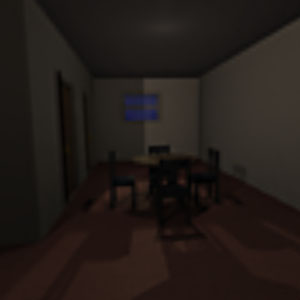
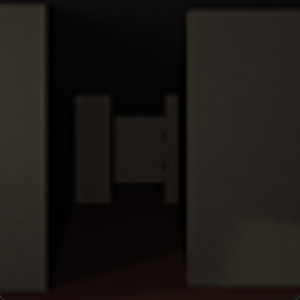
gluPerspectiveの近くのクリッピング平面を更新し、光源の位置を設定するコードを追加

diff --git a/_posts/2005-01-14-texture.md b/_posts/2005-01-14-texture.md
@@ -156,9 +156,7 @@ static void init(void)
   GL_RGB, GL_UNSIGNED_BYTE, texture);
 ```
 
-テクスチャの拡大には線形補間 `GL_LINEAR` を行うようにします．これでテクスチャのサイズが小さくても，鏡面反射を滑らかに見せることができます．またこのテクスチャは充分滑らかなので，テクスチャの縮小は最近傍法 `GL_NEAREST` のままでも問題ないと思いますが，これにも線形補間 `GL_LINEAR` を用いることにします．
-
-テクスチャによる鏡面反射光は，OpenGL の陰影付けによる拡散反射光に加算して合成します．このために，[`glTexEnvi()`](https://registry.khronos.org/OpenGL-Refpages/gl2.1/xhtml/glTexEnv.xml) で `GL_TEXTURE_ENV_MODE` に `GL_ADD` を指定します．これは OpenGL 1.3 から標準機能に取り込まれた機能なので，ビデオコントローラによっては機能しない場合があるようです（ATI Mobility M4 を搭載している ThinkPad や SGI VWS320 では機能しませんでした）．
+テクスチャの拡大フィルタ (`GL_TEXTURE_MAG_FILTER`) には線形補間 `GL_LINEAR` を行うようにします．これでテクスチャのサイズが小さくても，鏡面反射を滑らかに見せることができます．またこのテクスチャは充分滑らかなので，テクスチャの縮小フィルタ (`GL_TEXTURE_MIN_FILTER`) は最近傍法 `GL_NEAREST` のままでも問題ないと思いますが，これにも線形補間 `GL_LINEAR` を用いることにします．ただし、この時はテクスチャのラッピングモード (`GL_TEXTURE_WRAP_S` や `GL_TEXTURE_WRAP_T`) を `GL_CLAMP_TO_EDGE` にしないと、テクスチャの範囲外がマッピングされている領域の色が、テクスチャの最外周の色と違ってきます。なお、`GL_CLAMP_TO_EDGE` は OpenGL 1.2 からコア機能（標準機能）に取り入れられました。
 
 ```c
   /* テクスチャを拡大・縮小する方法の指定 */
@@ -166,19 +164,24 @@ static void init(void)
   glTexParameteri(GL_TEXTURE_2D, GL_TEXTURE_MIN_FILTER, GL_LINEAR);
 
   /* テクスチャの繰り返し方法の指定 */
-  glTexParameteri(GL_TEXTURE_2D, GL_TEXTURE_WRAP_S, GL_CLAMP);
-  glTexParameteri(GL_TEXTURE_2D, GL_TEXTURE_WRAP_T, GL_CLAMP);
+  glTexParameteri(GL_TEXTURE_2D, GL_TEXTURE_WRAP_S, GL_CLAMP_TO_EDGE);
+  glTexParameteri(GL_TEXTURE_2D, GL_TEXTURE_WRAP_T, GL_CLAMP_TO_EDGE);
 
   /* スフィアマッピング用のテクスチャ座標を生成する */
   glTexGeni(GL_S, GL_TEXTURE_GEN_MODE, GL_SPHERE_MAP);
   glTexGeni(GL_T, GL_TEXTURE_GEN_MODE, GL_SPHERE_MAP);
+```
 
+テクスチャによる鏡面反射光は，OpenGL の陰影付けによる拡散反射光に加算して合成します．このために，[`glTexEnvi()`](https://registry.khronos.org/OpenGL-Refpages/gl2.1/xhtml/glTexEnv.xml) で `GL_TEXTURE_ENV_MODE` に `GL_ADD` を指定します．これは OpenGL 1.3 からコア標準に取り入れられました。
+
+```c
   /* テクスチャ環境（ポリゴンの陰影に加算する） */
   glTexEnvi(GL_TEXTURE_ENV, GL_TEXTURE_ENV_MODE, GL_ADD);
 
   /* 光源の初期設定 */
   glEnable(GL_LIGHTING);
   glEnable(GL_LIGHT0);
+  glLightfv(GL_LIGHT0, GL_POSITION, lightpos);
   glLightfv(GL_LIGHT0, GL_DIFFUSE, lcol);
   glLightfv(GL_LIGHT0, GL_SPECULAR, lcol);
   glLightfv(GL_LIGHT0, GL_AMBIENT, lamb);
@@ -186,7 +189,7 @@ static void init(void)
 
 サンプルプログラムでは，スフィアマッピングを使って Phong のスムーズシェーディングを実現した図形の他に，これと同じパラメータを使って OpenGL 本来の陰影付けを行った図形を表示して，生成画像を比較できるようにしています．
 
-スフィアマッピングは鏡面反射成分にのみ利用するので，この方法では拡散反射成分と鏡面反射成分を別々に計算することになります．そこで比較の対象とする OpenGL 本来の陰影付けでも，拡散反射光と鏡面反射光を別々に補間するようにします．この機能も OpenGL 1.2 から標準機能に取り入れられた機能なので，VC++ 6.0 の gl.h には定数の定義が含まれていません．
+スフィアマッピングは鏡面反射成分にのみ利用するので，この方法では拡散反射成分と鏡面反射成分を別々に計算することになります．そこで比較の対象とする OpenGL 本来の陰影付けでも，拡散反射光と鏡面反射光を別々に補間するようにします．これは陰影付けモデルの設定の `GL_LIGHT_MODEL_COLOR_CONTROL` に `GL_SEPARATE_SPECULAR_COLOR` を設定します。この機能も OpenGL 1.2 からコア機能に取り入れられました。
 
 ```c
   /* 拡散反射光と鏡面反射光を別々に補間する */
@@ -196,6 +199,24 @@ static void init(void)
   glClearColor(0.3, 0.3, 1.0, 0.0);
   glEnable(GL_DEPTH_TEST);
   glDisable(GL_CULL_FACE);
+```
+
+VC++ 6.0 付属のソフトウェア開発キット (Windows SDK) に含まれている gl.h は OpenGL 1.1 のものなので、これ以降に OpenGL のコア機能に取り入れられた関数や定数は宣言されていません。その場合は、OpenGL の拡張機能を定義している glext.h を `#include` する必要があります。
+
+```c
+#if defined(__APPLE__)
+#  define GL_SILENCE_DEPRECATION
+#  include <GLUT/glut.h>
+#  include <OpenGL/glext.h>
+#else
+#  if defined(_WIN32)
+//#    pragma comment(linker, "/subsystem:\"windows\" /entry:\"mainCRTStartup\"")
+#    define _USE_MATH_DEFINES
+#    define _CRT_SECURE_NO_WARNINGS
+#  endif
+#  include <GL/glut.h>
+#  include <GL/glext.h>
+#endif
 ```
 
 ## シーンの描画

diff --git a/_posts/2005-06-10-texture.md b/_posts/2005-06-10-texture.md
@@ -100,7 +100,7 @@ static void init(void)
 
 `glTexSubImage2D()` は，`glTexImage2D()` でテクスチャを割り当てた後，そのテクスチャの一部を別の画像で置き換えます．この際，置き換える画像のサイズは 2<sup>n</sup> である必要はありません．つまり，最初に `glTexImage2D()` で（2<sup>n</sup> のサイズの）テクスチャを割り当てておけば，`glTexSubImage2D()` を使って（割り当てたテクスチャより小さな）任意のサイズの画像をテクスチャとして利用できます．
 
-それでは先ほど追加した部分を**書き換え**て，６面全部を置き換えてしまいましょう．テクスチャを置き換える位置の x 座標値を 128 画素ずつずらしながら，テクスチャを置き換えてゆきます．こうして全部の面を置き換えてしまうと，最初のサイコロの画像は不要になるので，この読み込みは無効にしておきます．
+それでは先ほど追加した部分を**書き換え**て，６面全部を置き換えてしまいましょう．まず、サイコロのテクスチャを読み込んでいる部分を `#if 0` ～ `#endif` ではさんで無効にします。
 
 ```c
 /*
@@ -127,34 +127,38 @@ static void init(void)
 #endif
 ```
 
-そうすると、この時点で配列 `texture` には何もデータが入っていない（不定）なので、`glTexImage2D()` の最後の引数は `nullptr` にして、テクスチャメモリの確保だけを行うようにしておきます。そのあと、`glTexSubImage()` を使って、ファイルごとにテクスチャメモリにデータを詰めていきます。
+これにより配列 `texture` には何もデータが入っていない状態（不定）になるので、`glTexImage2D()` の最後の引数を `nullptr` にして、データの転送を行わずテクスチャメモリの確保だけを行うようにします。
 
-```cpp
-/* テクスチャの割り当て */
-glTexImage2D(GL_TEXTURE_2D, 0, GL_RGBA, TEXWIDTH, TEXHEIGHT, 0,
-  GL_RGBA, GL_UNSIGNED_BYTE, nullptr);
+```c
+  /* テクスチャの割り当て */
+  glTexImage2D(GL_TEXTURE_2D, 0, GL_RGBA, TEXWIDTH, TEXHEIGHT, 0,
+    GL_RGBA, GL_UNSIGNED_BYTE, nullptr);
+```
 
-for (int i = 0; i < 6; ++i) {
-  /* テクスチャファイル名 */
-  static const char *textures[] = {
-    "room2ny.raw", /* 下 */
-    "room2nz.raw", /* 裏 */
-    "room2px.raw", /* 右 */
-    "room2pz.raw", /* 前 */
-    "room2nx.raw", /* 左 */
-    "room2py.raw", /* 上 */
-  };
+そして `glTexSubImage()` を使ってテクスチャを置き換える位置の x 座標値をファイルごとに 128 画素ずつずらしながら，テクスチャを置き換えてゆきます．
 
-  if ((fp = fopen(textures[i], "rb")) != NULL) {
-    /* テクスチャ画像の読み込み */
-    fread(texture, 128 * 128 * 4, 1, fp);
-    fclose(fp);
+```c
+  for (int i = 0; i < 6; ++i) {
+    /* テクスチャファイル名 */
+    static const char *textures[] = {
+      "room2ny.raw", /* 下 */
+      "room2nz.raw", /* 裏 */
+      "room2px.raw", /* 右 */
+      "room2pz.raw", /* 前 */
+      "room2nx.raw", /* 左 */
+      "room2py.raw", /* 上 */
+    };
 
-    /* テクスチャの置き換え */
-    glTexSubImage2D(GL_TEXTURE_2D, 0, i * 128, 0, 128, 128,
-      GL_RGBA, GL_UNSIGNED_BYTE, texture);
+    if ((fp = fopen(textures[i], "rb")) != NULL) {
+      /* テクスチャ画像の読み込み */
+      fread(texture, 128 * 128 * 4, 1, fp);
+      fclose(fp);
+
+      /* テクスチャの置き換え */
+      glTexSubImage2D(GL_TEXTURE_2D, 0, i * 128, 0, 128, 128,
+        GL_RGBA, GL_UNSIGNED_BYTE, texture);
+    }
   }
-}
 ```
 
 `glTexSubImage2D()` は実行時に動的にテクスチャを置き換えることができるので，これを使ってテクスチャのアニメーションなども実現できます．

diff --git a/_posts/2005-06-11-texture.md b/_posts/2005-06-11-texture.md
@@ -11,64 +11,7 @@ published: true
 
 - [6面全部のテクスチャを置き換えたサンプルプログラム](https://github.com/tokoik/texture11)
 
-## 箱を大きくする
-
-箱の中に入るというより，箱をデカくして，視点が箱に含まれるようにしてみます．
-
-```c
-/*
-** シーンの描画
-*/
-static void scene(void)
-{
-  static const GLfloat color[] = { 1.0, 1.0, 1.0, 1.0 };  /* 材質 (色) */
-
-  /* 材質の設定 */
-  glMaterialfv(GL_FRONT, GL_AMBIENT_AND_DIFFUSE, color);
-
-  /* テクスチャマッピング開始 */
-  glEnable(GL_TEXTURE_2D);
-
-  /* トラックボール処理による回転 */
-  glMultMatrixd(trackballRotation());
-
-  /* 箱を描く */
-  box(50.0, 50.0, 50.0);
-
-  /* テクスチャマッピング終了 */
-  glDisable(GL_TEXTURE_2D);
-}
-```
-
-![箱を大きくして箱の中に入ってみた]({{ site.baseurl }}/assets/images/dice6.jpg)
-
-なんだか暗いので，テクスチャが陰影に影響されないように，テクスチャ環境を `GL_MODULATE` から `GL_REPLACE` に変更します．
-
-```c
-/*
-** 初期化
-*/
-static void init(void)
-{
-  ...
-
-  /* テクスチャを拡大・縮小する方法の指定 */
-  glTexParameteri(GL_TEXTURE_2D, GL_TEXTURE_MAG_FILTER, GL_LINEAR);
-  glTexParameteri(GL_TEXTURE_2D, GL_TEXTURE_MIN_FILTER, GL_LINEAR);
-
-  /* テクスチャの繰り返し方法の指定 */
-  glTexParameteri(GL_TEXTURE_2D, GL_TEXTURE_WRAP_S, GL_CLAMP);
-  glTexParameteri(GL_TEXTURE_2D, GL_TEXTURE_WRAP_T, GL_CLAMP);
-
-  /* テクスチャ環境 */
-  glTexEnvi(GL_TEXTURE_ENV, GL_TEXTURE_ENV_MODE, GL_REPLACE);
-```
-
-![テクスチャに対する陰影を影響を無効にした]({{ site.baseurl }}/assets/images/dice7.jpg)
-
-## 箱の中心から見てみる
-
-そして，視点をこの箱の中心に移動します．視点はもともと Z 軸の正の方向にずらしていた（実際には，物体の方を Z 軸の負の方向にずらしていた）ので，この部分を無効にします．
+視点をこの箱の中心に移動して、箱の中に入ってみます．視点はもともと Z 軸の正の方向にずらしていた（実際には，物体の方を Z 軸の負の方向にずらしていた）ので，この部分を `#if 0` ～ `#endif` ではさんで無効にします．
 
 ```c
 static void display(void)
@@ -87,7 +30,33 @@ static void display(void)
 #endif
 ```
 
-![視点を部屋の中心に移動した]({{ site.baseurl }}/assets/images/dice8.jpg)
+![視点を部屋の中心に移動した]({{ site.baseurl }}/assets/images/dice6.jpg)
+
+## 陰影付けはしない
+
+なんだか暗いので，テクスチャが陰影に影響されないように，テクスチャ環境を `GL_MODULATE` から `GL_REPLACE` に変更します．
+
+```c
+/*
+** 初期化
+*/
+static void init(void)
+{
+  ...
+
+  /* テクスチャを拡大・縮小する方法の指定 */
+  glTexParameteri(GL_TEXTURE_2D, GL_TEXTURE_MAG_FILTER, GL_LINEAR);
+  glTexParameteri(GL_TEXTURE_2D, GL_TEXTURE_MIN_FILTER, GL_LINEAR);
+
+  /* テクスチャの繰り返し方法の指定 */
+  glTexParameteri(GL_TEXTURE_2D, GL_TEXTURE_WRAP_S, GL_CLAMP_TO_EDGE);
+  glTexParameteri(GL_TEXTURE_2D, GL_TEXTURE_WRAP_T, GL_CLAMP_TO_EDGE);
+
+  /* テクスチャ環境 */
+  glTexEnvi(GL_TEXTURE_ENV, GL_TEXTURE_ENV_MODE, GL_REPLACE);
+```
+
+![テクスチャに対する陰影を影響を無効にした]({{ site.baseurl }}/assets/images/dice7.jpg)
 
 マウスをドラッグしてこの箱をぐるぐる回すと，部屋を内側から見回すことができます．テクスチャの境界が目立っているのは，テクスチャ自体の作り方が悪くて，最外周の画素の色が変化しているからです．
 

diff --git a/_posts/2005-01-21-texture.md b/_posts/2005-01-21-texture.md
@@ -224,7 +224,7 @@ static void display(void)
   glRotated(t * 360.0, 0.0, 0.0, 1.0);
 #if 0
   glScaled(0.5, 0.5, 1.0);
-  gluPerspective(60.0, 1.0, 1.0, 100.0);
+  gluPerspective(60.0, 1.0, 0.1, 10.0);
   gluLookAt(0.0, 2.0, 0.0, 0.0, 0.0, 0.0, 0.0, 0.0, 1.0);
 #else
   glTranslated(-0.5, -0.5, 0.0);
@@ -298,10 +298,18 @@ static void init(void)
     glTexImage2D(target[i], 0, GL_RGBA, TEXWIDTH, TEXHEIGHT, 0,
     GL_RGBA, GL_UNSIGNED_BYTE, texture);
   }
+  ```
 
+テクスチャの拡大フィルタ (`GL_TEXTURE_MAG_FILTER`) とに縮小フィルタ (`GL_TEXTURE_MIN_FILTER`) では線形補間 `GL_LINEAR` を行うようにします．ただし、この時はテクスチャのラッピングモード (`GL_TEXTURE_WRAP_S` や `GL_TEXTURE_WRAP_T`) を `GL_CLAMP_TO_EDGE` にしないと、テクスチャの範囲外がマッピングされている領域の色が、テクスチャの最外周の色と違ってきます。
+
+  ```c
   /* テクスチャを拡大・縮小する方法の指定 */
   glTexParameteri(GL_TEXTURE_CUBE_MAP, GL_TEXTURE_MAG_FILTER, GL_LINEAR);
   glTexParameteri(GL_TEXTURE_CUBE_MAP, GL_TEXTURE_MIN_FILTER, GL_LINEAR);
+
+  /* テクスチャの繰り返し方法の指定 */
+  glTexParameteri(GL_TEXTURE_2D, GL_TEXTURE_WRAP_S, GL_CLAMP_TO_EDGE);
+  glTexParameteri(GL_TEXTURE_2D, GL_TEXTURE_WRAP_T, GL_CLAMP_TO_EDGE);
 ```
 
 上のプログラムでは，ついでにテクスチャの拡大・縮小方法に線形補間を指定しています．これをコンパイルして実行すると，こんな具合になります．

diff --git a/_posts/2004-09-14-texture.md b/_posts/2004-09-14-texture.md
@@ -46,6 +46,7 @@ static void init(void)
   /* 光源の初期設定 */
   glEnable(GL_LIGHTING);
   glEnable(GL_LIGHT0);
+  glLightfv(GL_LIGHT0, GL_POSITION, lightpos);
   glLightfv(GL_LIGHT0, GL_DIFFUSE, lightcol);
   glLightfv(GL_LIGHT0, GL_SPECULAR, lightcol);
   glLightfv(GL_LIGHT0, GL_AMBIENT, lightamb);
@@ -112,14 +113,13 @@ static void scene(void)
 
 ## MIPMAP について
 
-ちなみに MIPMAP が使いたければ，テクスチャを割り当てている部分を下のように変更してみてください．マッピングされたテクスチャのギザギザが，多少滑らかになります．
+ちなみに MIPMAP が使いたければ，次のようにテクスチャの拡大フィルタ (`GL_TEXTURE_MAG_FILTER`) や縮小フィルタ (`GL_TEXTURE_MIN_FILTER`) に線形補間 (`GL_LINEAR` や `GL_LINEAR_MIPMAP_LINEAR` など) を使ってみてください．マッピングされたテクスチャのギザギザが，多少滑らかになります．
 
 ```c
   /* テクスチャの割り当て */
   gluBuild2DMipmaps(GL_TEXTURE_2D, GL_RGB, TEXWIDTH, TEXHEIGHT,
     GL_RGB, GL_UNSIGNED_BYTE, texture);
  
-
   /* テクスチャを拡大・縮小する方法の指定 */
   glTexParameteri(GL_TEXTURE_2D, GL_TEXTURE_MAG_FILTER, GL_LINEAR);
   glTexParameteri(GL_TEXTURE_2D, GL_TEXTURE_MIN_FILTER, GL_LINEAR_MIPMAP_LINEAR);

diff --git a/_posts/2004-12-29-texture.md b/_posts/2004-12-29-texture.md
@@ -148,7 +148,7 @@ static void display(void)
   glScaled(0.5, 0.5, 1.0);
 
   /* テクスチャ行列に透視変換行列と視野変換行列を掛ける */
-  gluPerspective(60.0, 1.0, 1.0, 100.0);
+  gluPerspective(60.0, 1.0, 0.1, 10.0);
   gluLookAt(0.0, 2.0, 0.0, 0.0, 0.0, 0.0, 0.0, 0.0, 1.0);
 
   /* トラックボール処理でテクスチャを回転 */
@@ -216,7 +216,7 @@ static void display(void)
   glScaled(0.5, 0.5, 1.0);
 
   /* テクスチャ行列に透視変換行列と視野変換行列を掛ける */
-  gluPerspective(60.0, 1.0, 1.0, 100.0);
+  gluPerspective(60.0, 1.0, 0.1, 10.0);
   gluLookAt(0.0, 2.0, 0.0, 0.0, 0.0, 0.0, 0.0, 0.0, 1.0);
 
   /* トラックボール処理でテクスチャを回転 */
@@ -288,7 +288,7 @@ static void display(void)
   glScaled(0.5, 0.5, 1.0);
 
   /* テクスチャ行列に透視変換行列と視野変換行列を掛ける */
-  gluPerspective(60.0, 1.0, 1.0, 100.0);
+  gluPerspective(60.0, 1.0, 0.1, 10.0);
   gluLookAt(0.0, 2.0, 0.0, 0.0, 0.0, 0.0, 0.0, 0.0, 1.0);
 
   /* トラックボール処理でテクスチャを回転 */

diff --git a/_posts/2004-12-28-texture.md b/_posts/2004-12-28-texture.md
@@ -301,7 +301,7 @@ static void display(void)
   glScaled(0.5, 0.5, 1.0);
 
   /* テクスチャ行列に透視変換行列とビュー変換行列を掛ける */
-  gluPerspective(60.0, 1.0, 1.0, 100.0);
+  gluPerspective(60.0, 1.0, 0.1, 10.0);
   gluLookAt(0.0, 2.0, 0.0, 0.0, 0.0, 0.0, 0.0, 0.0, 1.0);
 
   /* トラックボール処理でテクスチャを回転 */

diff --git a/_posts/2005-06-14-texture.md b/_posts/2005-06-14-texture.md
@@ -287,6 +287,7 @@ PFNGLLOADTRANSPOSEMATRIXDPROC glLoadTransposeMatrixd;
   /* 光源の初期設定 */
   glEnable(GL_LIGHTING);
   glEnable(GL_LIGHT0);
+  glLightfv(GL_LIGHT0, GL_POSITION, lightpos);
   glLightfv(GL_LIGHT0, GL_DIFFUSE, lightcol);
   glLightfv(GL_LIGHT0, GL_SPECULAR, lightcol);
   glLightfv(GL_LIGHT0, GL_AMBIENT, lightamb);

diff --git a/_posts/2004-09-20-texture.md b/_posts/2004-09-20-texture.md
@@ -157,7 +157,7 @@ static void display(void)
   glScaled(0.5, 0.5, 1.0);
 
   /* テクスチャ行列に透視変換行列とビュー変換行列を掛ける */
-  gluPerspective(60.0, 1.0, 1.0, 100.0);
+  gluPerspective(60.0, 1.0, 0.1, 10.0);
   gluLookAt(0.0, 2.0, 0.0, 0.0, 0.0, 0.0, 0.0, 0.0, 1.0);
 
   /* 画面クリア */

diff --git a/_posts/2005-01-07-texture.md b/_posts/2005-01-07-texture.md
@@ -118,7 +118,7 @@ static void display(void)
   glScaled(0.5, 0.5, 1.0);
 
   /* テクスチャ行列に透視変換行列と視野変換行列を掛ける */
-  gluPerspective(60.0, 1.0, 1.0, 100.0);
+  gluPerspective(60.0, 1.0, 0.1, 10.0);
   gluLookAt(0.0, 2.0, 0.0, 0.0, 0.0, 0.0, 0.0, 0.0, 1.0);
 #endif
 ```

diff --git a/_posts/2005-06-15-texture.md b/_posts/2005-06-15-texture.md
@@ -181,6 +181,7 @@ static void init(void)
   /* 光源の初期設定 */
   glEnable(GL_LIGHTING);
   glEnable(GL_LIGHT0);
+  glLightfv(GL_LIGHT0, GL_POSITION, lightpos);
   glLightfv(GL_LIGHT0, GL_DIFFUSE, lightcol);
   glLightfv(GL_LIGHT0, GL_SPECULAR, lightcol);
   glLightfv(GL_LIGHT0, GL_AMBIENT, lightamb);

diff --git a/_drafts/2005-09-23-converted.md b/_drafts/2005-09-23-converted.md
@@ -229,7 +229,7 @@ glViewport(0, 0, width, height);
 
 glMatrixMode(GL_PROJECTION);
 glLoadIdentity();
-gluPerspective(60.0, (double)width / (double)height, 1.0, 100.0);
+gluPerspective(60.0, (double)width / (double)height, 0.1, 10.0);
 
 /* モデルビュー変換行列の設定 */
 
